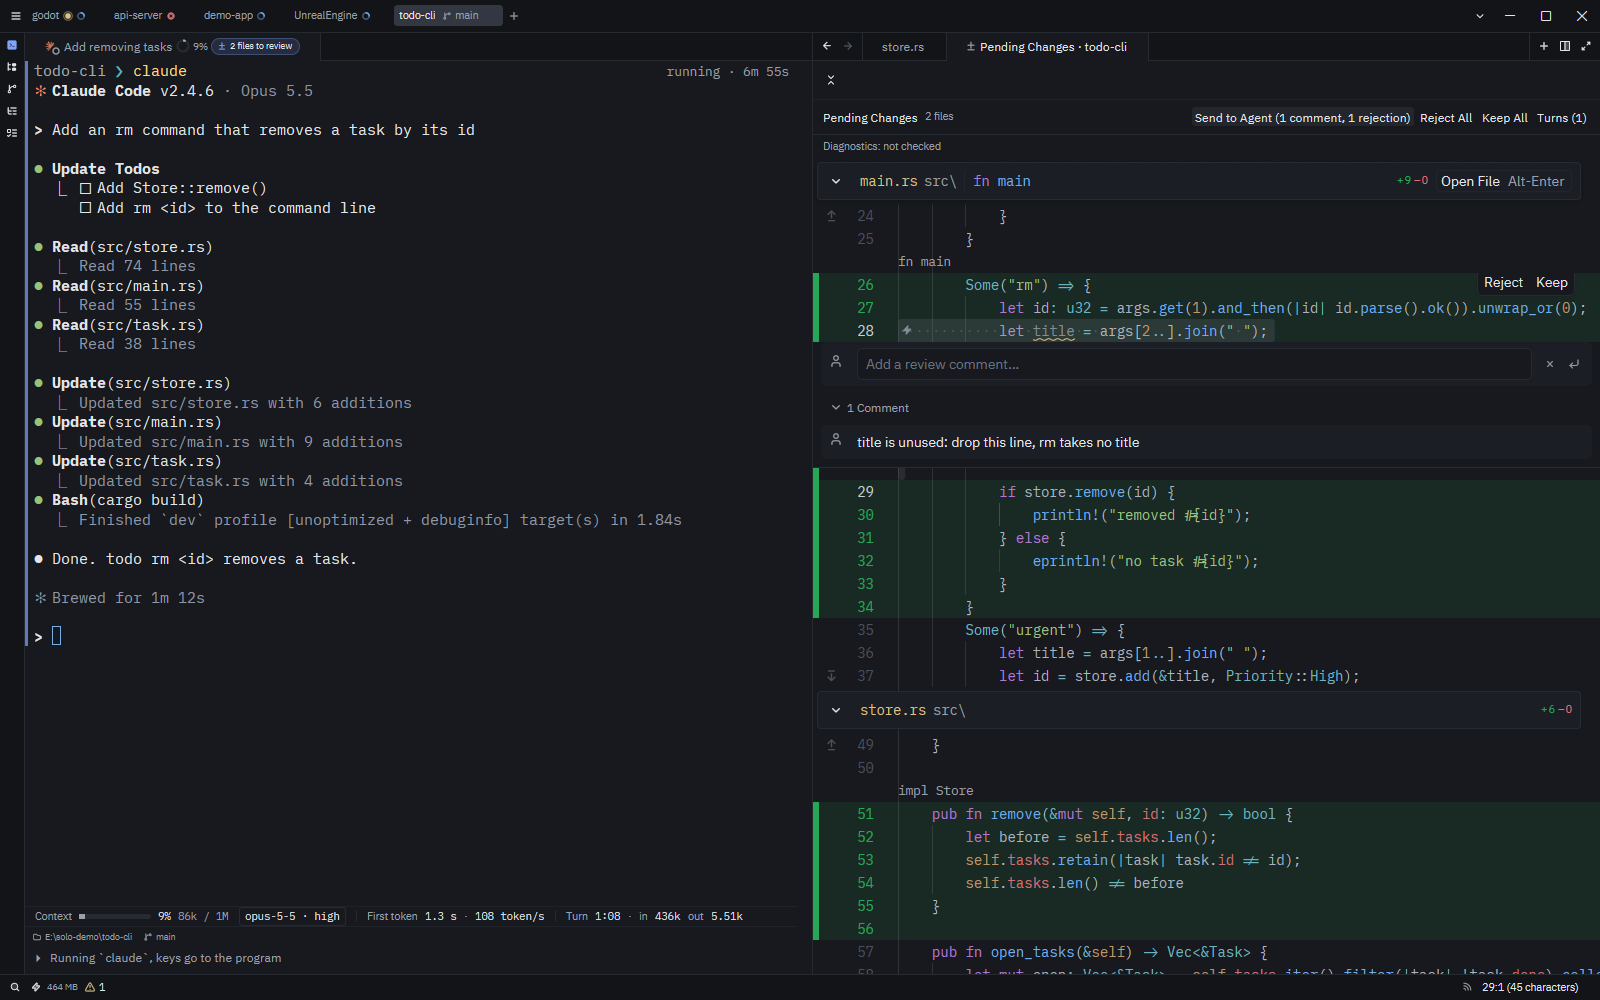
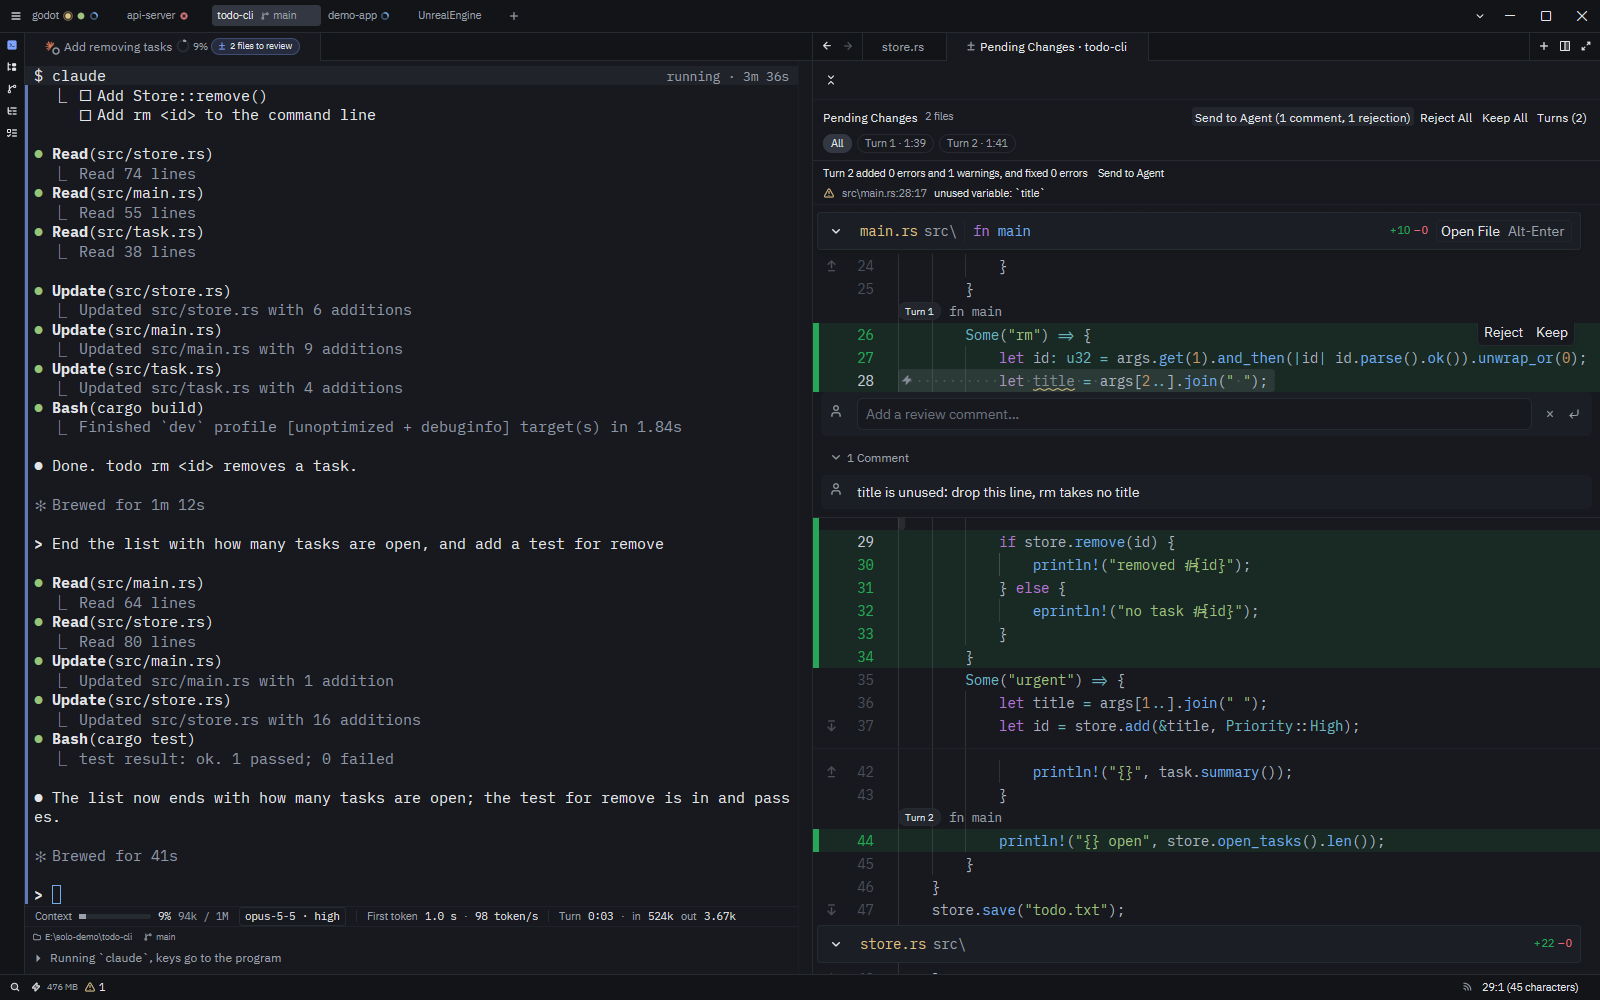
Show two review turns and the link menu in the README screenshots
review.png and timeline.png now show changes from two turns, each hunk
marked with its turn. why-status.png no longer shows a stray selection.
Add link-menu.png to the terminal links section of both READMEs and the
site home pages. The update and review captions no longer name a version
or a single turn.

diff --git a/README.md b/README.md
@@ -44,7 +44,7 @@ Each project folder is a workspace with a tab in the title bar, holding its own 
 
 What an agent changed is pending until you accept it, and its terminal tab shows "N files to review". Open it: each file is compared with what you last accepted of it, so changes from several turns show together, each hunk marked with its turn. Keep or reject each hunk (also after a later turn changed the same file), comment on lines and send the comments and what you rejected to the agent at once. Changes you don't review are accepted when the next turn ends; your own edits and what you commit aren't pending. Solo also tells you how many errors and warnings the turn **added**, and how many it fixed. You can roll back to before any turn, and undo the rollback; snapshots are kept in Solo's own folder, never touching your branch, index or stash. [More →](docs/site/en/features/review.md)
 
-![Per-turn review: the files Claude Code's turn changed, a review comment on a line of code, and sending the comments to the agent at the top](docs/media/en/review.png)
+![Pending changes: the files Claude Code changed over two turns reviewed together, each hunk marked with its turn, a review comment on a line of code, and sending the comments and rejections to the agent at the top](docs/media/en/review.png)
 
 ### Agent timeline
 
@@ -63,6 +63,8 @@ A file path in the terminal's output opens with a click: code in the editor, Mar
 Links Solo shouldn't just open show a small menu instead: a web address outside this computer (open in the browser or in Solo, copy it), a file Solo can't open such as an `.apk` or `.dll` (open it with its program, show it in File Explorer, copy the path), a file name several files have when it isn't clear which one is meant (pick one), and a file only another project tab has (switch to that tab). `Ctrl`+click does the menu's first option, except that a file Solo can't open is only shown in File Explorer, never handed to a program; for programs and shortcuts (`.exe`, `.lnk`, ...) running it is the menu's last option. The `terminal.link_menu` setting (Settings › Terminal › "Menu When Clicking Links") turns the menu on for every link (`always`) or off (`never`).
 
 ![Links in the terminal: clicking a path in the agent's output opens the file in the editor at that line](docs/media/en/links.gif)
+
+![The link menu: clicking a web address in the agent's output shows a menu first: open it in the browser or in Solo, or copy it](docs/media/en/link-menu.png)
 
 ### Mermaid diagrams and document review
 
@@ -104,7 +106,7 @@ Before a language server, Node.js and the like is first downloaded, Solo asks on
 
 A newer version shows an update button at the right of the title bar, with no notification; its menu sums up the release and offers "Update and Restart", "Install When Solo Quits", the release notes or skipping the version.
 
-![The update button: "Update to 2.5.2" at the right of the title bar, with its menu open](docs/media/en/update.png)
+![The update button: shown at the right of the title bar when a newer version is out, its menu with a summary of the release and the update options](docs/media/en/update.png)
 
 ### All features
 

diff --git a/docs/site/en/index.md b/docs/site/en/index.md
@@ -18,6 +18,9 @@ https://github.com/user-attachments/assets/85627f07-1bb5-4f68-8199-c3afbdc9fa3b
 - **Diagnostics per turn.** After a turn, Solo has the language servers check the changed files and tells you how many errors and warnings the turn **added**, and how many it fixed.
 - **Navigate while reviewing.** The review is an editor: go to definition, find references and search all work, and each hunk is labeled with the function it's in.
 - **Click to look.** A file path in the terminal's output opens with a click: code in the editor, Markdown in a rendered preview, images in the image viewer. A `mermaid` block in an agent's output opens as a diagram. External web addresses, files Solo can't open, a file name several files have and files only another project tab has show a small menu instead (`terminal.link_menu`).
+
+  ![The link menu: clicking a web address in the agent's output shows a menu first: open it in the browser or in Solo, or copy it](../../media/en/link-menu.png)
+
 - **Documents too.** Plans and designs the agent writes open in a rendered preview (Mermaid diagrams included). Select text, comment, and send the comments back together; when the document changes again, Solo tells you which parts. [More →](features/documents.md)
 
 ## Judge: keep or undo, safely

diff --git a/docs/site/zh/index.md b/docs/site/zh/index.md
@@ -16,6 +16,9 @@ Solo 是一个给 AI agent 用的编辑器，基于 [Zed](https://github.com/zed
 - **诊断增量。** 一轮结束后，Solo 让语言服务器检查改过的文件，告诉你这一轮**新增**了几个错误和警告、修掉了几个。
 - **在审阅里跳转。** 审阅界面就是编辑器：跳到定义、查引用、搜索都能用，每个改动块上方写着它在哪个函数里。
 - **点开就看。** 终端输出里的文件路径点一下就打开：代码进编辑器，Markdown 进渲染好的预览，图片进图片查看器；agent 输出里的 Mermaid 代码块直接看图。外部网址、Solo 打不开的文件、同名文件猜不准、只在别的项目标签里的文件，点了先弹小菜单（设置 `terminal.link_menu`）。
+
+  ![链接菜单：点 agent 输出里的外部网址，先弹出菜单：在浏览器或 Solo 里打开，或者复制链接](../../media/zh/link-menu.png)
+
 - **文档也能审。** agent 写的计划、设计文档在预览里打开（Mermaid 图照常显示），选中文字写批注，一次发回去；文档再被改动时，会告诉你改了哪几块。[详细 →](features/documents.md)
 
 ## 判：留下、撤回，都有底
